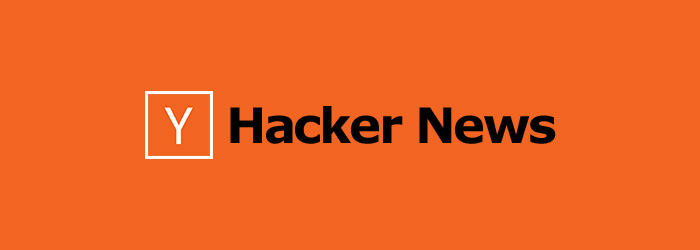
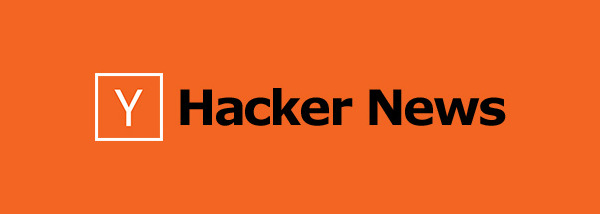
Fine-tuning of new components

Changed region(s): [[0.15, 0.3364, 0.84, 0.6729]]

diff --git a/css/main.css b/css/main.css
@@ -1142,7 +1142,7 @@ a .number:hover {
 }
 
 .featuredin img {
-    max-height:50px;
+    max-height:60px;
 }
 
 /*Networks*/
@@ -1154,6 +1154,7 @@ a .number:hover {
 .networks img {
     margin: 0px 15px 10px 0px;
     height: 100%;
+    max-height: 75px;
 }
 
 /*SEARCH PHP*/

diff --git a/components/featuredin.php b/components/featuredin.php
@@ -5,9 +5,9 @@
         <a href="https://www.openminds.at/" target="_blank"><img src="./img/featuredin/openmindsaward.png" alt="Open Minds Award Austria"></a>
         <a href="http://reddit.com/" target="_blank"><img src="./img/featuredin/reddit.png" alt="reddit"></a>
         <a href="https://www.heise.de/ct/ausgabe/2016-25-Fundstuecke-im-Web-Wissen-Messaging-Galaxie-3492805.html" target="_blank"><img src="./img/featuredin/ctmagazin.png" alt="ct magazin"></a>
-        <a href="https://17.re-publica.com/en/17/session/open-knowledge-maps-visual-interface-worlds-scientific-knowledge" target="_blank"><img src="./img/featuredin/republica2017.png" alt="re:publica"></a>
-        <a href="https://mozillafestival.org/" target="_blank"><img src="./img/featuredin/mozfest.png" alt="Mozfest"></a>
         <a href="https://twitter.com/open_con" target="_blank"><img src="./img/featuredin/opencon.png" alt="Open Con"></a>
+        <a href="https://17.re-publica.com/en/17/session/open-knowledge-maps-visual-interface-worlds-scientific-knowledge" target="_blank"><img src="./img/featuredin/republica.jpg" alt="re:publica"></a>
+        <a href="https://mozillafestival.org/" target="_blank"><img src="./img/featuredin/mozfest.png" alt="Mozfest"></a>
         <a href="https://news.ycombinator.com/" target="_blank"><img src="./img/featuredin/hackernews.jpg" alt="Hacker News"></a>
         <a href="http://wikicite.org/" target="_blank"><img src="./img/featuredin/wikicite.png" alt="Wikicite"></a>
     </div>
